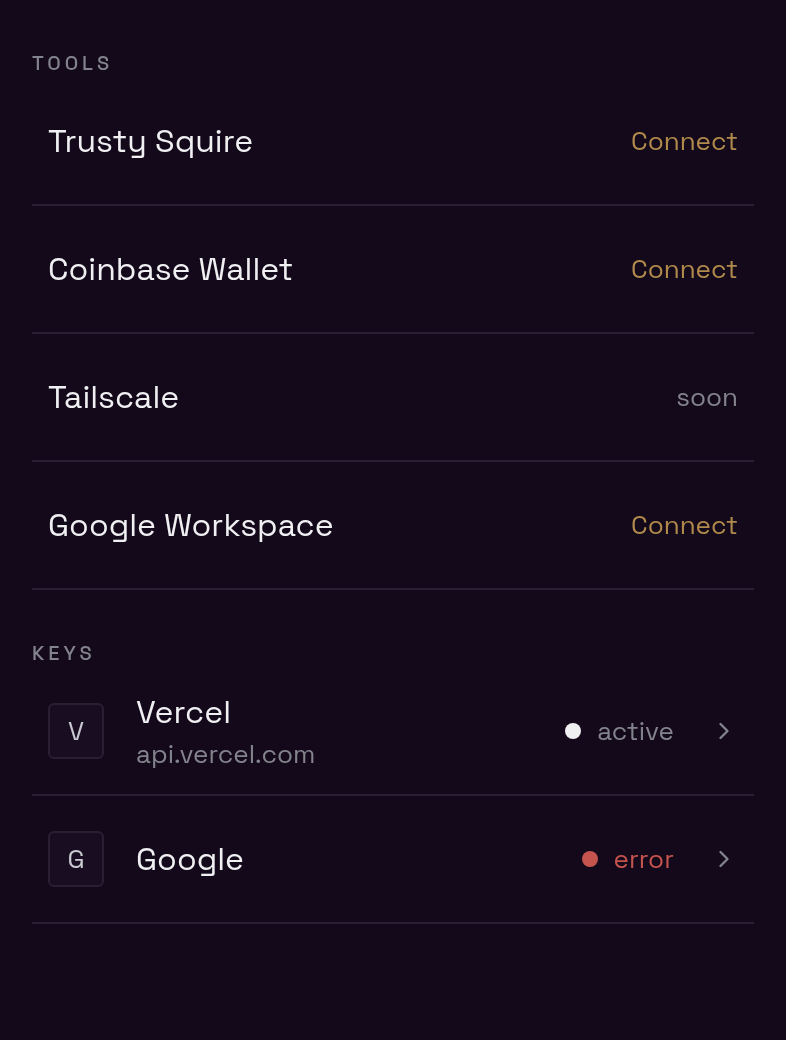
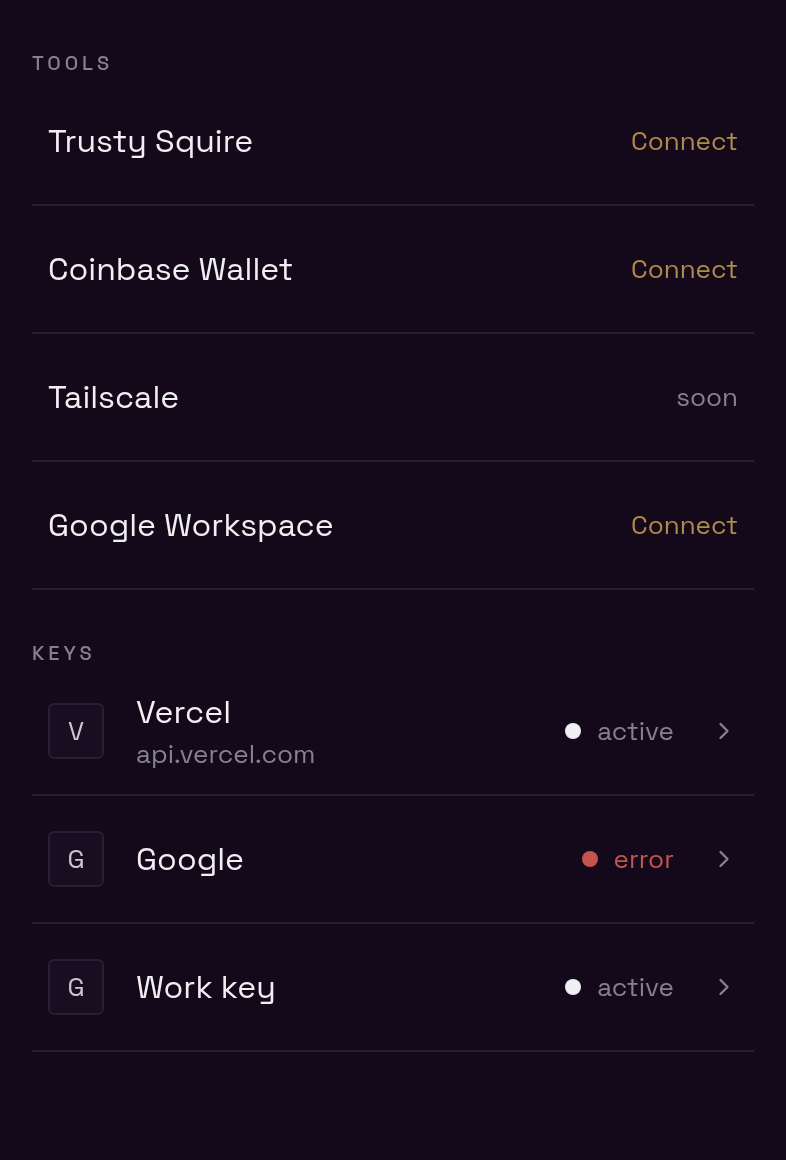
fix(mobile): read a key row's company from the vault service, not a guess
The mark read the company out of the first allowed host, falling back to the
key's label. Both are the wrong authority and both get real keys wrong: a
hostless GitHub key someone labelled `Work key` marked `W`, `api.example.co.uk`
marked `C` for its suffix, and `127.0.0.1` marked `0`.

The authority was already on the row and was mis-named. `WorkbenchConnection`
carried `kind`, documented as the vault kind (`session`, `token`), while
`workbench-source.ts` has only ever filled it from the read DTO's `service` —
the vault's own `vercel` / `github` / `google`. The field is now `service`,
named for what it holds, optional rather than defaulted to a `vault`
placeholder, so a screen can tell an unreported service from a reported one.
The mock fixtures carried the stale meaning too, which is why the fault
survived a render test; they now carry services, plus a third key —
`Work key`, no hosts, service `github` — that is exactly the case the label
and the address both get wrong.

`connectionCompany` reads that service first. Host and name remain, explicitly
as fallbacks for a vault that reports no service, and the host read no longer
returns a suffix (`example.co.uk` → `example`) or an address (an IP names no
company, so the key's own name says more).

`serviceMonogram` takes one glyph: `ß` upper-cases to `SS`, and a plate is one
letter wide.

diff --git a/apps/mobile/sources/buzz/workbench.ts b/apps/mobile/sources/buzz/workbench.ts
@@ -61,8 +61,17 @@ export type WorkbenchConnector = {
 export type WorkbenchConnection = {
   ref: string;
   name: string;
-  /** Vault kind: `session`, `token`, … */
-  kind: string;
+  /**
+   * The service this key is FOR, exactly as the vault reports it (`vercel`,
+   * `github`, `google`) — `workspace_connections.service`, carried by the
+   * read DTO's own `service` field. Absent when the vault reports none.
+   *
+   * It was called `kind` and documented as the vault kind (`session`,
+   * `token`), which is not what `workbench-source.ts` has ever filled it
+   * with. A reader who believed the old name had to guess the company from
+   * somewhere else; this is the authority, so it is named for what it is.
+   */
+  service?: string;
   hosts: readonly string[];
   state: 'active' | 'error';
   /** Which human provisioned the connection (sovereignty owner). */
@@ -385,19 +394,43 @@ export function connectionDomainsLine(connection: WorkbenchConnection): string {
 }
 
 /**
- * The company a key is FOR, read from what the key actually reaches: the
- * name in its first host (`api.vercel.com` → `vercel`), because a vault
- * label is whatever the tool wrote and a reference is machine text. Falls
- * back to the key's own name when it carries no hosts.
+ * The company a key is FOR. The vault's own `service` is the authority and
+ * is read first: it is what the credential was issued by, it survives a
+ * rename, and it is the only field here that cannot disagree with itself.
+ *
+ * The two fallbacks are for a vault that reports no service at all, and are
+ * explicitly weaker: a host is what the key is allowed to reach, which is
+ * usually but not always the company, and a name is whatever the tool or a
+ * person typed.
  */
 export function connectionCompany(connection: WorkbenchConnection): string {
-  const host = connection.hosts[0];
-  if (!host) return connection.name;
+  if (connection.service) return connection.service;
+  return hostCompany(connection.hosts[0]) ?? connection.name;
+}
+
+/**
+ * Registrable-ish name from a host: `api.vercel.com` → `vercel`,
+ * `api.example.co.uk` → `example`, `slack.com` → `slack`.
+ *
+ * `undefined` for an address that names no company at all — an IP literal
+ * (`127.0.0.1` would otherwise read as `0`) or a host with nothing before
+ * its suffix. There is no public-suffix list on the phone, so the one thing
+ * this knows is the handful of second-level suffixes that would otherwise
+ * make the mark read `C` for `co.uk`.
+ */
+const SECOND_LEVEL_SUFFIXES = new Set(['co', 'com', 'net', 'org', 'gov', 'edu', 'ac']);
+
+function hostCompany(host: string | undefined): string | undefined {
+  if (!host) return undefined;
   const labels = host.split('.').filter(Boolean);
-  // `api.vercel.com` → `vercel`; `slack.com` → `slack`; a bare host stands
-  // for itself.
-  const company = labels.length >= 2 ? labels[labels.length - 2] : labels[0];
-  return company ?? connection.name;
+  if (!labels.length) return undefined;
+  // An IPv4 literal is all digits; an IPv6 one carries colons. Neither names
+  // a company, so the key's own name says more than its address does.
+  if (host.includes(':') || labels.every((label) => /^\d+$/.test(label))) return undefined;
+  if (labels.length === 1) return labels[0];
+  const penultimate = labels[labels.length - 2]!;
+  if (labels.length >= 3 && SECOND_LEVEL_SUFFIXES.has(penultimate)) return labels[labels.length - 3];
+  return penultimate;
 }
 
 /**
@@ -406,7 +439,10 @@ export function connectionCompany(connection: WorkbenchConnection): string {
  */
 export function serviceMonogram(company: string): string {
   const character = [...company].find((entry) => /[\p{L}\p{N}]/u.test(entry));
-  return character ? character.toUpperCase() : '?';
+  if (!character) return '?';
+  // One glyph, always: `ß` upper-cases to `SS`, and a plate is one letter
+  // wide.
+  return [...character.toUpperCase()][0] ?? '?';
 }
 
 /** How a key row's trailing state reads: the state word beside its dot,

diff --git a/apps/mobile/sources/buzz/workbench.test.ts b/apps/mobile/sources/buzz/workbench.test.ts
@@ -49,7 +49,7 @@ const view: WorkbenchView = {
     {
       ref: 'cred_vercel',
       name: 'Vercel',
-      kind: 'token',
+      service: 'vercel',
       hosts: ['api.vercel.com'],
       state: 'active',
       ownerId: VIEWER_A,
@@ -57,7 +57,7 @@ const view: WorkbenchView = {
     {
       ref: 'cred_google',
       name: 'Google',
-      kind: 'session',
+      service: 'google',
       hosts: [],
       state: 'active',
       ownerId: VIEWER_A,
@@ -65,7 +65,7 @@ const view: WorkbenchView = {
     {
       ref: 'cred_slack',
       name: 'Slack',
-      kind: 'token',
+      service: 'slack',
       hosts: ['slack.com'],
       state: 'error',
       ownerId: VIEWER_B,
@@ -156,11 +156,36 @@ describe('key row copy', () => {
     expect(connectionDomainsLine(view.connections[1])).toBe('');
   });
 
-  it('names the company from the host the key reaches, not the vault label', () => {
+  it('names the company from the service the vault reports', () => {
     expect(connectionCompany(view.connections[0])).toBe('vercel');
-    expect(connectionCompany(view.connections[2])).toBe('slack');
-    // No hosts to read: the key's own name is the company.
-    expect(connectionCompany(view.connections[1])).toBe('Google');
+    expect(connectionCompany(view.connections[1])).toBe('google');
+  });
+
+  it('keeps the service over a label and an address that disagree with it', () => {
+    // The case the label would get wrong: a GitHub key someone called
+    // `Work key`, with no hosts to read either.
+    const labelled = { ...view.connections[0], name: 'Work key', service: 'github', hosts: [] };
+    expect(connectionCompany(labelled)).toBe('github');
+    expect(serviceMonogram(connectionCompany(labelled))).toBe('G');
+    // And an address that is not its company's name at all.
+    const proxied = { ...view.connections[0], service: 'openai', hosts: ['10.0.0.7'] };
+    expect(connectionCompany(proxied)).toBe('openai');
+  });
+
+  it('falls back to the host, then the name, only when no service is reported', () => {
+    const noService = (hosts: string[], name = 'Vercel') => ({
+      ...view.connections[0],
+      name,
+      service: undefined,
+      hosts,
+    });
+    expect(connectionCompany(noService(['api.vercel.com']))).toBe('vercel');
+    expect(connectionCompany(noService(['slack.com']))).toBe('slack');
+    // A two-level suffix is not the company: `co.uk` used to read as `co`.
+    expect(connectionCompany(noService(['api.example.co.uk']))).toBe('example');
+    // An address names no company — the key's own name says more.
+    expect(connectionCompany(noService(['127.0.0.1'], 'Home box'))).toBe('Home box');
+    expect(connectionCompany(noService([], 'Home box'))).toBe('Home box');
   });
 
   it('carries the company letter on the mark, and never an empty plate', () => {
@@ -168,6 +193,8 @@ describe('key row copy', () => {
     expect(serviceMonogram('1password')).toBe('1');
     expect(serviceMonogram('@slack')).toBe('S');
     expect(serviceMonogram('')).toBe('?');
+    // One glyph, always: `ß` upper-cases to `SS`.
+    expect(serviceMonogram('ßeta')).toBe('S');
   });
 
   it('reads a live key and a broken one apart, each with its dot', () => {

diff --git a/apps/mobile/sources/buzz/workbench-source.mock.ts b/apps/mobile/sources/buzz/workbench-source.mock.ts
@@ -31,7 +31,7 @@ export const VERCEL_CONNECTION: ConnectionDetailView = {
   connection: {
     ref: 'cred_vercel',
     name: 'Vercel',
-    kind: 'token',
+    service: 'vercel',
     hosts: ['api.vercel.com'],
     state: 'active',
     ownerId: MEMBER_A,
@@ -56,7 +56,7 @@ export const GOOGLE_CONNECTION: ConnectionDetailView = {
   connection: {
     ref: 'cred_google',
     name: 'Google',
-    kind: 'session',
+    service: 'google',
     hosts: [],
     state: 'active',
     ownerId: MEMBER_A,
@@ -71,8 +71,33 @@ export const GOOGLE_CONNECTION: ConnectionDetailView = {
   ],
 };
 
+/**
+ * A key whose label says nothing about its company and whose vault reports no
+ * hosts: the shape that proves the row reads the vault's `service` rather
+ * than guessing from a label or an address.
+ */
+export const GITHUB_CONNECTION: ConnectionDetailView = {
+  connection: {
+    ref: 'cred_github',
+    name: 'Work key',
+    service: 'github',
+    hosts: [],
+    state: 'active',
+    ownerId: MEMBER_A,
+    grantCount: 1,
+  },
+  createdBy: { handle: '@hoots', cause: 'sign-up', at: '11 Sep' },
+  grants: [{ grantId: 'hoots', createdAt: 4 }],
+  spendCap: 'none',
+  ledger: [{ at: '10:04', actor: '@hoots', action: 'open pull request', status: '201' }],
+};
+
 const MOCK_VIEWERS: readonly MockViewer[] = [
-  { id: MEMBER_A, name: 'dani', connections: [VERCEL_CONNECTION, GOOGLE_CONNECTION] },
+  {
+    id: MEMBER_A,
+    name: 'dani',
+    connections: [VERCEL_CONNECTION, GOOGLE_CONNECTION, GITHUB_CONNECTION],
+  },
   { id: MEMBER_B, name: 'terra', connections: [] },
 ];
 

diff --git a/apps/mobile/sources/buzz/workbench-source.monolith.test.ts b/apps/mobile/sources/buzz/workbench-source.monolith.test.ts
@@ -82,3 +82,37 @@ describe('MonolithWorkbenchSource pairConnector — the ONE Google entry', () =>
     expect(state.calls.some((call) => call.op === 'readWorkbench')).toBe(false);
   });
 });
+
+describe('MonolithWorkbenchSource connections', () => {
+  afterEach(() => {
+    state.calls.length = 0;
+  });
+
+  it('carries the vault service through as itself, and leaves it absent when the vault has none', async () => {
+    state.readWorkbenchOutput = {
+      ...workbenchDto([]),
+      connections: [
+        {
+          reference: 'cred_github',
+          label: 'Work key',
+          service: 'github',
+          allowedHosts: [],
+          state: 'active',
+        },
+        {
+          reference: 'cred_unknown',
+          label: 'Box',
+          service: null,
+          allowedHosts: ['127.0.0.1'],
+          state: 'active',
+        },
+      ],
+    };
+    const view = await new MonolithWorkbenchSource().readWorkbench({
+      workspaceId: 'ws1',
+      viewerId: 'human-dani',
+    });
+    expect(view.connections[0].service).toBe('github');
+    expect(view.connections[1].service).toBeUndefined();
+  });
+});

diff --git a/apps/mobile/sources/app/(app)/beeline/settings/workbench.test.tsx b/apps/mobile/sources/app/(app)/beeline/settings/workbench.test.tsx
@@ -214,7 +214,17 @@ describe('Workbench settings screen', () => {
     // A key with no hosts draws no quiet line rather than a `—` placeholder.
     const google = renderer.root.findByProps({ testID: 'workbench-connection-cred_google' });
     expect(google.props.description).toBeUndefined();
-    expect(google.props.leading.props.company).toBe('Google');
+    expect(google.props.leading.props.company).toBe('google');
+  });
+
+  it('marks a key by its vault service, not by the label someone gave it', async () => {
+    const renderer = await render();
+    // `Work key`, no hosts, service `github`: neither the name nor an address
+    // can say who this key is for.
+    const github = renderer.root.findByProps({ testID: 'workbench-connection-cred_github' });
+    expect(github.props.title).toBe('Work key');
+    expect(github.props.description).toBeUndefined();
+    expect(github.props.leading.props.company).toBe('github');
   });
 
   it('gives a key row the same state instrument the tool rows carry', async () => {

diff --git a/apps/mobile/sources/buzz/workbench-source.ts b/apps/mobile/sources/buzz/workbench-source.ts
@@ -85,7 +85,10 @@ function toConnection(
   return {
     ref: dto.reference,
     name: dto.label,
-    kind: dto.service ?? 'vault',
+    // The vault's own service, carried through as itself. A server that
+    // reports none leaves the field absent rather than inventing a `vault`
+    // placeholder, so the screens can tell "no service reported" from one.
+    ...(dto.service ? { service: dto.service } : {}),
     hosts: dto.allowedHosts,
     state: dto.state,
     ownerId: viewerId,

diff --git a/apps/mobile/sources/app/(app)/beeline/settings/workbench/connection.tsx b/apps/mobile/sources/app/(app)/beeline/settings/workbench/connection.tsx
@@ -96,7 +96,7 @@ export default function ConnectionDetailScreen() {
           />
         </TouchableOpacity>
         <Text style={styles.title}>{detail?.connection.name ?? 'Key'}</Text>
-        <Text style={styles.subtitle}>{detail?.connection.kind ?? ''}</Text>
+        <Text style={styles.subtitle}>{detail?.connection.service ?? ''}</Text>
       </View>
       <ScrollView style={styles.content} contentContainerStyle={styles.contentInner}>
         {detail ? (

diff --git a/apps/mobile/sources/buzz/workbench-source.test.ts b/apps/mobile/sources/buzz/workbench-source.test.ts
@@ -194,7 +194,7 @@ describe('mock Workbench source', () => {
       await source.readWorkbench({ workspaceId: 'ws', viewerId: MEMBER_B }),
       MEMBER_B,
     );
-    expect(forA.map((connection) => connection.name)).toEqual(['Vercel', 'Google']);
+    expect(forA.map((connection) => connection.name)).toEqual(['Vercel', 'Google', 'Work key']);
     expect(forB).toEqual([]);
     expect(forB.some((connection) => connection.ownerId === MEMBER_A)).toBe(false);
   });

diff --git a/apps/mobile/evidence/workbench/README.md b/apps/mobile/evidence/workbench/README.md
@@ -20,7 +20,7 @@ the mocked `WorkbenchSource` (`sources/buzz/workbench-source.ts`) with per-viewe
 | workbench-two-backs-before.png | v0.0.104 fault: the screen's own ‹ header row stacked under the navigator's back control, plus the four-line Keys empty state |
 | workbench-polish-after.png | After the fix: one stack-header back control, Workbench title, and the two-line Keys empty state |
 | workbench-keys-before.png | v0.2.20 key rows: no leading mark, the vault kind ahead of the host in the quiet line, a bare state word, and the Tools head sitting 16 from the top against the Keys head's 24 |
-| workbench-keys-after.png | After: the company mark leads the row, the domains are the quiet line (a hostless key has none), the state word carries its dot, and both heads take 24 |
+| workbench-keys-after.png | After: the company mark leads the row, the domains are the quiet line (a hostless key has none), the state word carries its dot, and both heads take 24. The third key is the review case — `Work key`, no hosts, vault service `github` — whose mark reads `G` from the service, not `W` from the label |
 | workbench-key-error-before.png | A key whose vault reports `error` read in the same quiet grey as a live one, with no dot |
 | workbench-key-error-after.png | The same key reading broken: the failed dot and the danger tone the tool rows already use |
 
@@ -34,3 +34,5 @@ itself (`settings/workbench.tsx`, its real styles, the shipped Space Grotesk
 faces) was painted under react-native-web at 393×520 CSS px, device scale 2,
 reading the same `MockWorkbenchSource` the render tests read. The error pair
 flips the Google key's state to `error` in that mock and changes nothing else.
+The `before` pair predates the mock's third key (`Work key`), which was added
+with the fix that made the mark read the vault's service.
